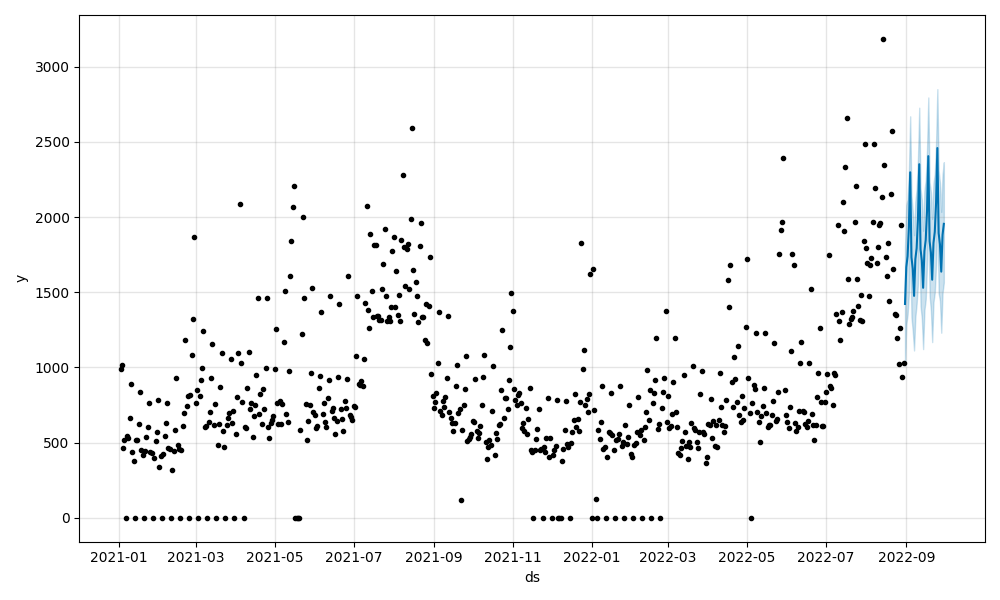
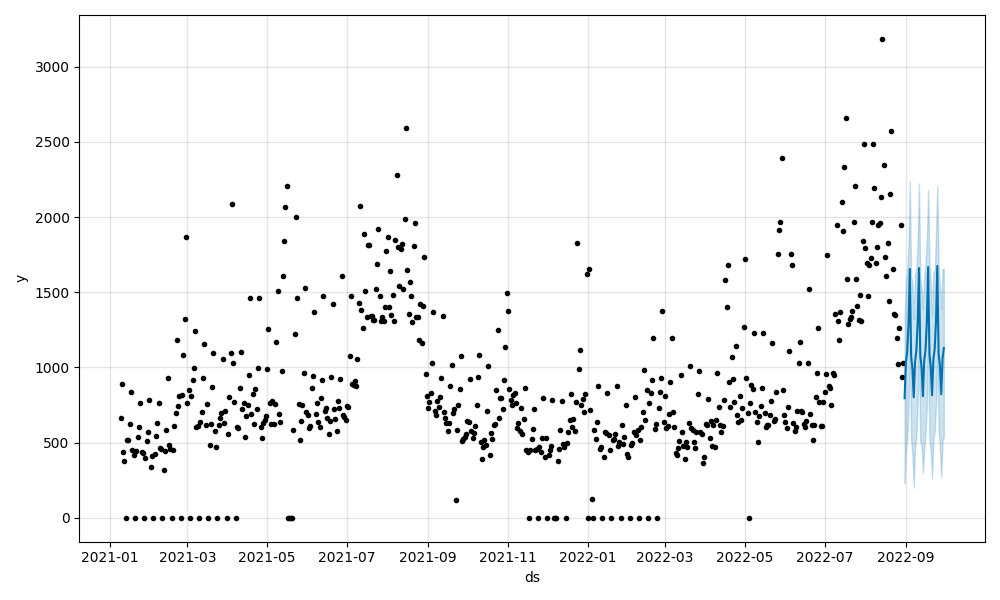
model training  and making

diff --git a/ML/models/bakery_model.py b/ML/models/bakery_model.py
@@ -13,6 +13,22 @@ df_subset = df[["ds", "y"]].copy()
 
 df_subset['ds'] = pd.to_datetime(df_subset['ds'])
 
+# --- STEP 1: FEATURE ENGINEERING FOR XGBOOST ---
+# Sort by date just to be safe
+df_subset = df_subset.sort_values('ds')
+# Time-based featuresS
+df_subset['day_of_week'] = df_subset['ds'].dt.dayofweek
+df_subset['month'] = df_subset['ds'].dt.month
+# Lag features (What happened yesterday? What happened exactly a week ago?)
+df_subset['lag_1'] = df_subset['y'].shift(1)
+df_subset['lag_7'] = df_subset['y'].shift(7)
+# Rolling average (What was the average over the last week?)
+# We shift by 1 first so we don't accidentally include TODAY's sales in the average (Data Leakage!)
+df_subset['rolling_7day_avg'] = df_subset['y'].shift(1).rolling(window=7).mean()
+# Drop the first 7 rows because they will have "NaN" (empty) values from the shifting
+df_subset = df_subset.dropna().reset_index(drop=True)
+
+
 limit_date = df_subset['ds'].max() - pd.Timedelta(days=30)
 train_data = df_subset[df_subset['ds'] < limit_date]
 test_data = df_subset[df_subset['ds'] >= limit_date]
